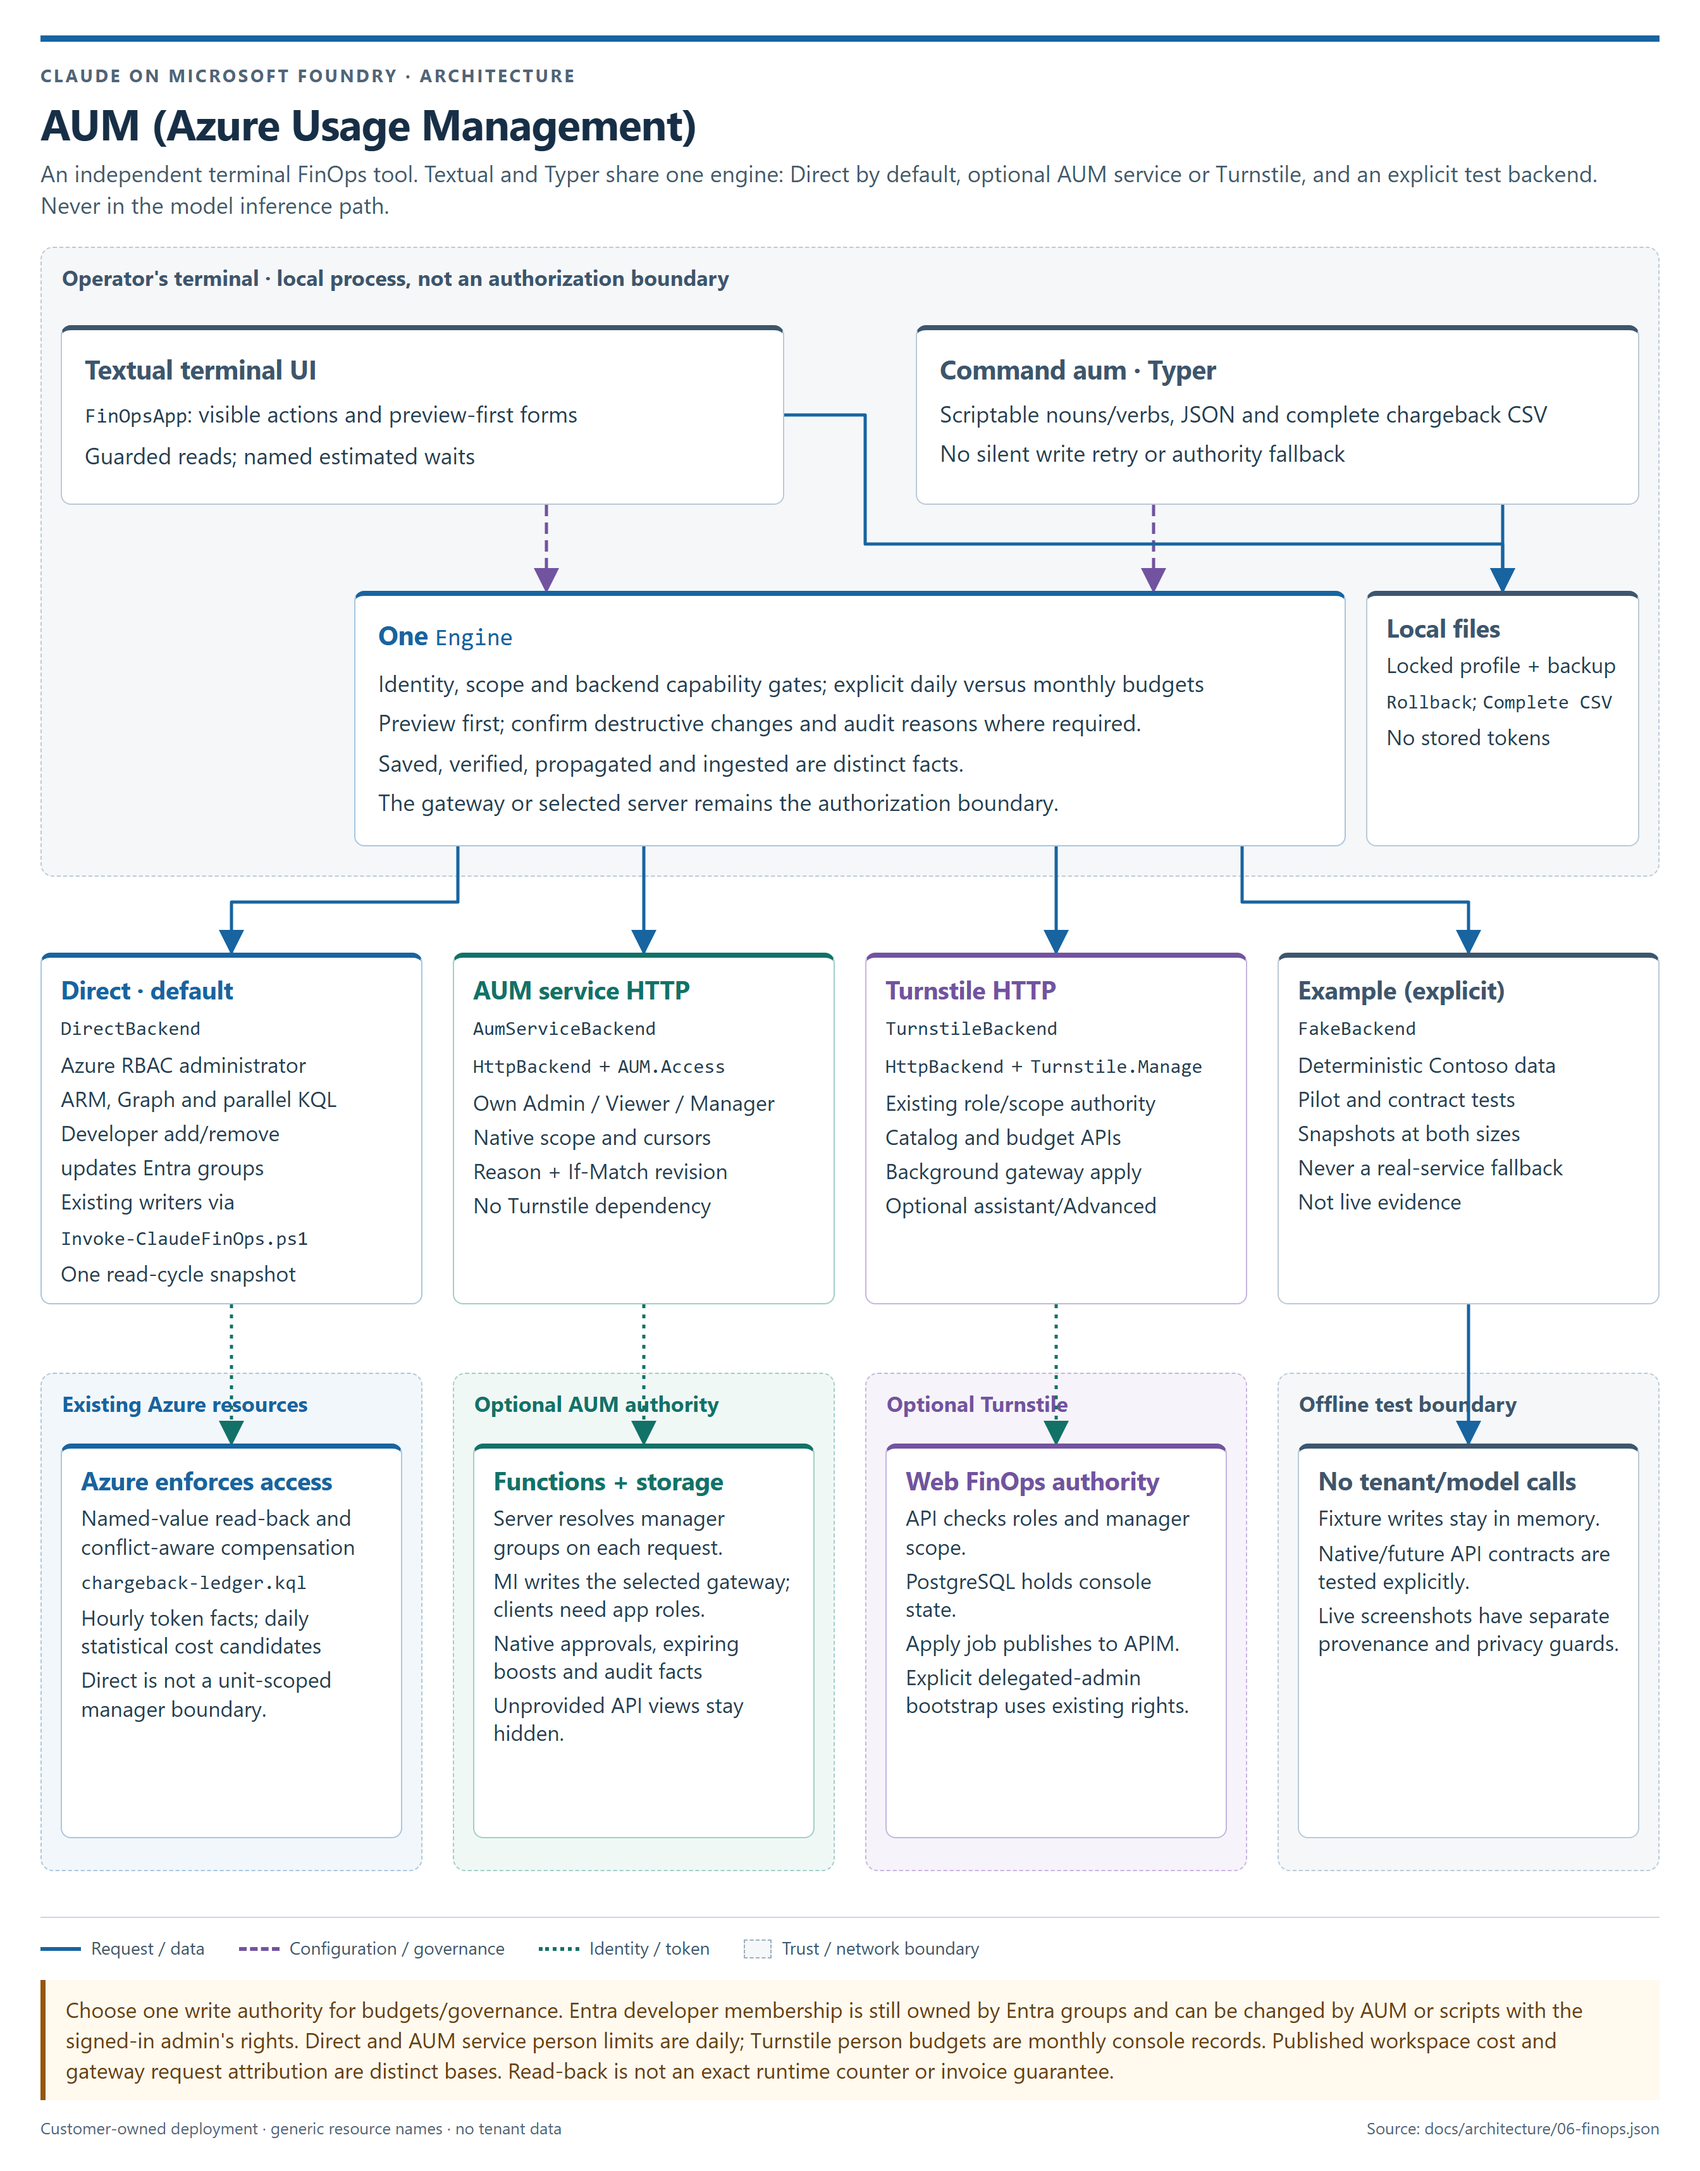
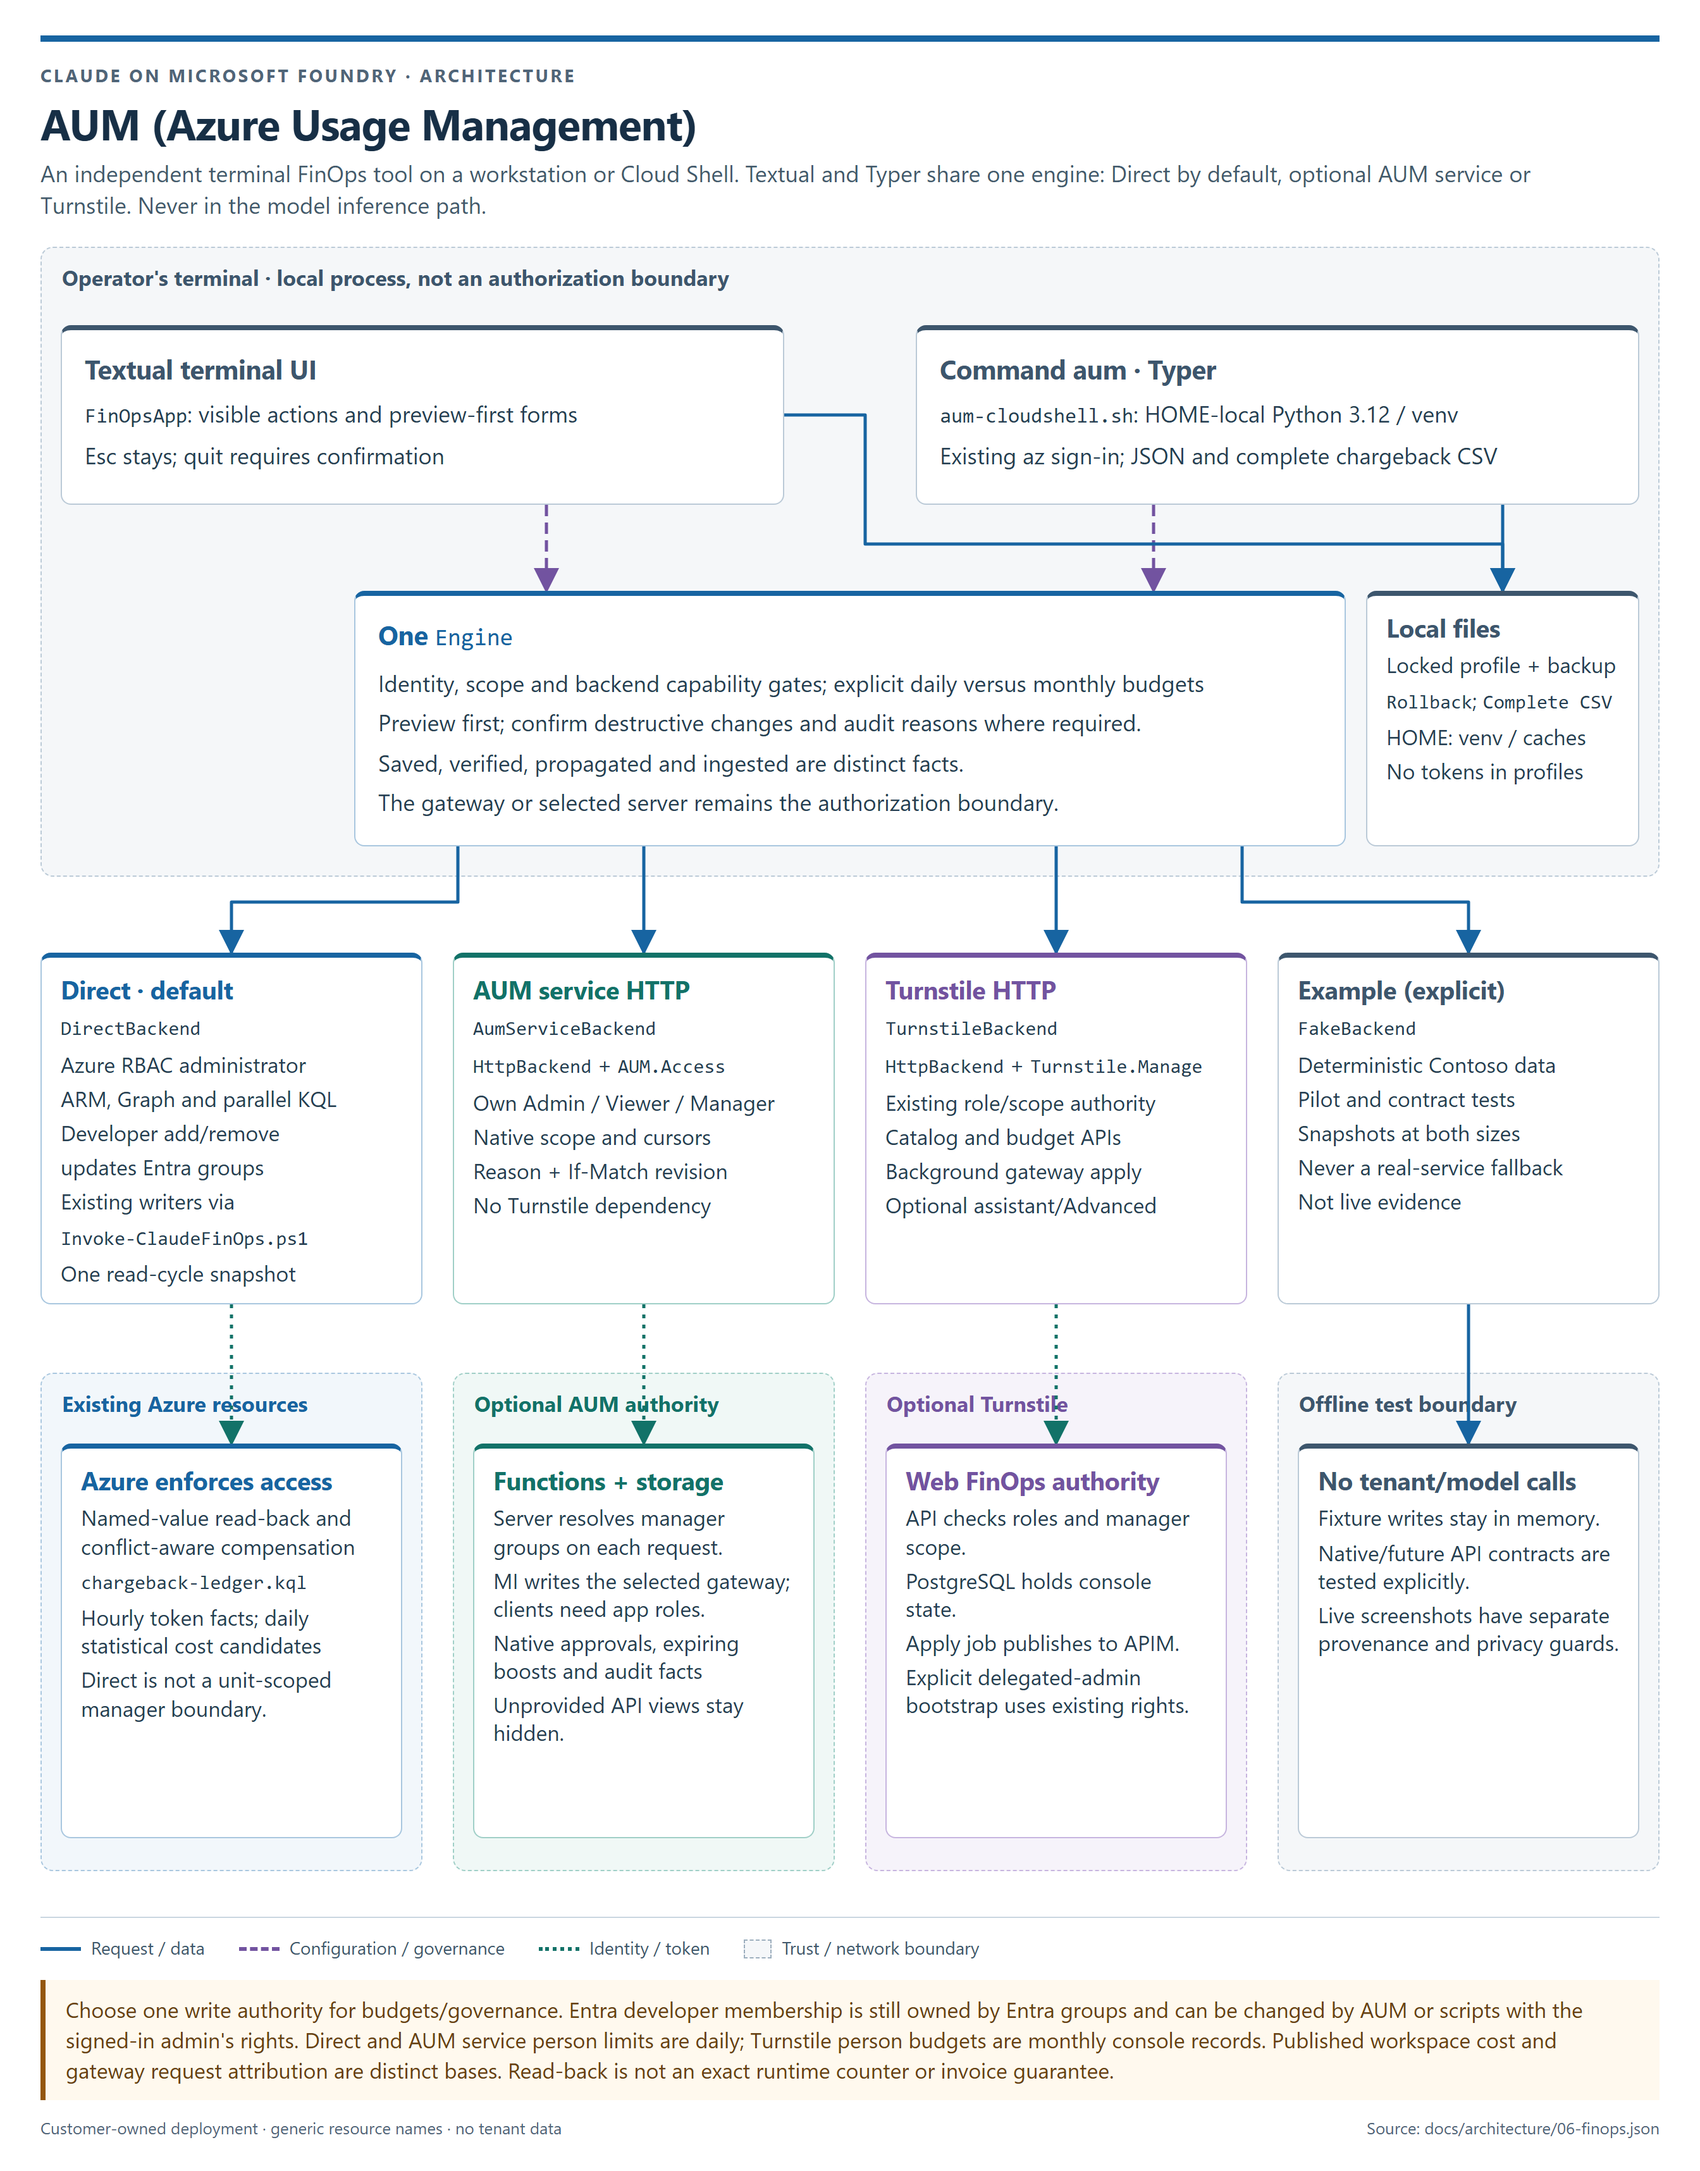
docs(aum): record Cloud Shell architecture and session-safety evidence
Keep the new launch surface, local runtime/cache and deliberate quit behavior visible in the source-backed architecture. Regenerate only the capture provenance required by existing tests, preserve historical live images, and record the additional P71 imports and exact-context reviews. Guide/capture, reference and architecture checks pass; live Cloud Shell verification remains owner-only.

Copilot-Session: 1c966b06-b3de-42c0-9254-3a62ae5081bc

diff --git a/docs/STATUS.md b/docs/STATUS.md
@@ -101,6 +101,29 @@ persistence remain unverified on Cloud Shell from this machine. Private
 endpoints require an already connected VNet Cloud Shell; this packet does
 not deploy one.
 
+**Required captures and architecture:** the existing capture-source check
+failed on the changed `config.py` hash (**0.83 s**), so the existing
+Example-only capture tool was rerun. All nine guide/capture checks passed
+in **18.08 s**. Historical live images remain unchanged. The terminal
+architecture now names the Cloud Shell launcher, HOME-local runtime/cache
+and quit confirmation; it adds no Azure resource or governance writer.
+The generated terminal diagram was visually inspected. Architecture passed
+**36 assertions in 32.223 s wall time**; references passed for **42 guides**
+with all ten built-in negatives caught in **6.606 s wall time**.
+
+**Additional P71 integration list:** the read-only comparison against the
+same `860abc9` contract, relative to the initial P85 handoff, adds the imports
+`errors.READ_FAILURES`, `errors.read_error` and `feature_screens.QuitScreen`,
+plus palette references to `action_quit`, `action_clear_filter`,
+`action_next_page` and `action_previous_page`. Five existing progressive
+contexts changed: `_show_wait`, `_show_read_error`, `action_refresh`,
+`load_overview` and its nested `fetch`. Their exact, reviewed exception
+fingerprints need renewal after integration; their private attributes do
+not justify a blanket allowlist. The new quit screen still needs P71's
+protected layout/screen imports when combined with that branch. No new
+builtin allowance, raw notification or unrestricted-super call was added.
+The detailed comparison is `$env:TEMP\p85-p71-extension-delta.json`.
+
 ### Initial evidence and unknowns
 
 The inherited no-run audit passed: 20 checks passed, 2 warned, 0 failed,
@@ -260,7 +283,7 @@ records the mutation runner and strengthened retained-origin test.
 The guide and provenance commit is `58ea5ac`. Council and the packet gate
 remain lead-owned.
 
-### Final builder validation and handoff
+### Initial-scope builder validation and handoff
 
 The complete offline AUM suite at `58ea5ac` passed **682 tests in 440.85 s**
 (**442.647 s wall time**), with **0 failures, 0 errors and 0 skips**. This is
@@ -282,7 +305,7 @@ not independent wall-clock runs. The separate guide-reference check covered
 identical case identities and clean restoration. The P71 HEAD and the three
 inspected contract files were unchanged when checked again after the full run.
 
-All builder acceptance work is complete: PLAN/CONTRACT, RED/GREEN evidence,
+All initial-scope builder acceptance work is complete: PLAN/CONTRACT, RED/GREEN evidence,
 47 complete/negative pilots, mutations, task how-tos, required Example
 captures, CHANGELOG, U58-U61 and architecture/P71 conclusions. The final
 production diff was reviewed against `e630525`; no writer implementation or

diff --git a/docs/ARCHITECTURE.md b/docs/ARCHITECTURE.md
@@ -497,12 +497,22 @@ Source: [06-finops.json](architecture/06-finops.json), verified against the loca
 [`cli/finops`](../cli/finops) implementation merged to main at `c7f0a29`. The design is
 recorded in [ADR-0018](adr/0018-terminal-finops.md), P71's
 [ADR-0035](adr/0035-aum-bounded-readiness-and-progressive-reads.md), and P80's
-[ADR-0038](adr/0038-aum-actions-and-connection.md).
+[ADR-0038](adr/0038-aum-actions-and-connection.md). P85 adds the Cloud Shell
+launch surface and deliberate session controls in
+[ADR-0041](adr/0041-aum-session-safety-and-cloud-shell.md).
 
 The product is **AUM - Azure Usage Management**, a terminal FinOps console with command
 **`aum`**. `claude-finops` remains a deprecated alias; the internal package stays
 `claude_finops`. The [AUM terminal guide](AUM.md#install) starts with installation
 and connection setup. The [legacy guide URL](CLI-FINOPS.md) remains a pointer.
+
+The [Cloud Shell launcher](../scripts/aum-cloudshell.sh) provisions only a
+HOME-local Python/venv/cache and an editable install from the checkout, using
+the existing Azure CLI sign-in. It does not deploy Cloud Shell, a VNet or
+storage, and does not introduce a governance writer. Its hosted terminal uses
+the same backend endpoints and permissions. Private endpoints require an
+appropriately connected VNet Cloud Shell. Runtime/bootstrap and actual HOME
+persistence verification remain owner-only in U61.
 
 The Textual `FinOpsApp` and Typer commands share `Engine` for period selection, scope,
 budget validation, previews and explicit writes. The backend is a choice, not an
